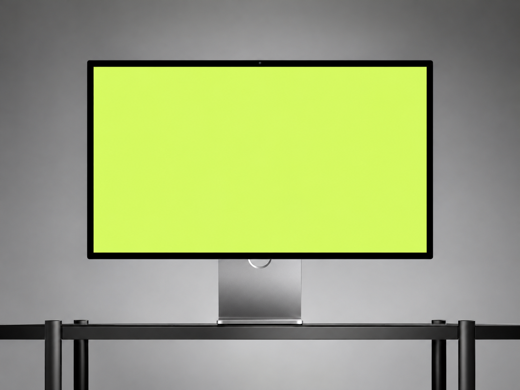
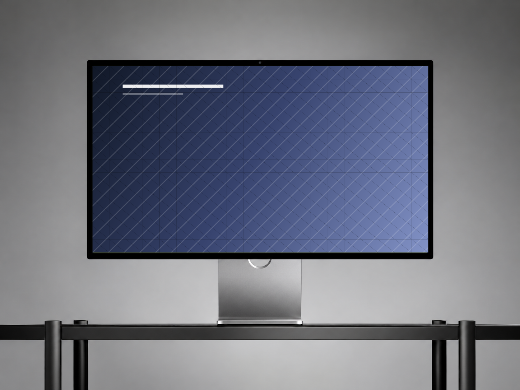
feat: unify mockup catalog and preview presentation

diff --git a/plugin/ui.html b/plugin/ui.html
@@ -13,6 +13,8 @@
   --line: #303030;
   --line-soft: #292929;
   --panel-pad: 16px;
+  --catalog-card-gap: 10px;
+  --recent-thumb-size: 52px;
   --text: #e2e1e6;
   --muted: #97969d;
   --muted-2: #6f6e74;
@@ -47,7 +49,7 @@ svg { width: 18px; height: 18px; fill: none; stroke: currentColor; stroke-width:
 .window-button, .tool-button, .color-button { width: 34px; height: 34px; display: grid; place-items: center; border-radius: 9px; color: #bdbcc2; }
 .window-button:hover, .tool-button:hover, .color-button:hover { background: #262626; color: #fff; }
 
-.workspace { min-width: 0; min-height: 0; display: grid; grid-template-columns: 304px minmax(0, 1fr); }
+.workspace { min-width: 0; min-height: 0; display: grid; grid-template-columns: 288px minmax(0, 1fr); }
 
 .catalog-panel { min-width: 0; min-height: 0; overflow: hidden; border-right: 1px solid var(--line); background: #181818; position: relative; }
 .catalog-view { width: 100%; height: 100%; min-height: 0; display: grid; grid-template-rows: 66px auto 28px minmax(0, 1fr) auto; }
@@ -72,7 +74,7 @@ svg { width: 18px; height: 18px; fill: none; stroke: currentColor; stroke-width:
 .category-select select, .fit-select select { min-width: 0; flex: 1; border: 0; outline: 0; color: #d5d4d9; background: transparent; }
 .catalog-summary { height: 28px; padding: 0 var(--panel-pad); display: flex; align-items: center; justify-content: space-between; color: #69686e; font-size: 10px; }
 
-.asset-grid { min-width: 0; min-height: 0; overflow: auto; padding: 14px 14px 18px; display: grid; align-content: start; grid-template-columns: repeat(2, minmax(0, 1fr)); gap: 12px 10px; scroll-padding: 14px; isolation: isolate; }
+.asset-grid { min-width: 0; min-height: 0; overflow-x: hidden; overflow-y: auto; padding: 12px var(--panel-pad) 16px; display: grid; align-content: start; grid-template-columns: repeat(2, minmax(0, 1fr)); gap: var(--catalog-card-gap); scroll-padding: 12px; isolation: isolate; }
 .asset-grid::-webkit-scrollbar { width: 6px; }
 .asset-grid::-webkit-scrollbar-thumb { background: #36363a; border-radius: 99px; }
 .asset-card { min-width: 0; padding: 0; overflow: hidden; position: relative; z-index: 0; transform-origin: center; border: 1px solid transparent; border-radius: 10px; background: #232323; cursor: pointer; text-align: left; transition: transform .18s ease, box-shadow .18s ease, border-color .18s ease; }
@@ -86,14 +88,14 @@ svg { width: 18px; height: 18px; fill: none; stroke: currentColor; stroke-width:
 .catalog-empty[hidden] { display: none; }
 .catalog-empty strong { color: #aaa9af; }
 
-.recent-strip { width: 100%; height: 104px; overflow: hidden; padding: 9px 14px 11px; display: grid; grid-template-rows: 20px 62px; gap: 3px; border-top: 1px solid var(--line-soft); background: #171717; }
+.recent-strip { width: 100%; height: 92px; overflow: hidden; padding: 8px var(--panel-pad) 10px; display: grid; grid-template-rows: 18px var(--recent-thumb-size); gap: 4px; border-top: 1px solid var(--line-soft); background: #171717; }
 .recent-strip[hidden] { display: none; }
-.recent-strip header { min-width: 0; height: 20px; margin: 0; padding: 0; display: flex; align-items: center; justify-content: space-between; color: #86858b; text-align: left; }
+.recent-strip header { min-width: 0; height: 18px; margin: 0; padding: 0; display: flex; align-items: center; justify-content: space-between; color: #86858b; text-align: left; }
 .recent-strip header button { line-height: 1; }
-.recent-strip > div { width: 100%; height: 62px; margin: 0; padding: 0; overflow-x: auto; overflow-y: hidden; display: flex; justify-content: flex-start; gap: 9px; scroll-behavior: smooth; scrollbar-width: none; touch-action: pan-y; cursor: grab; }
+.recent-strip > div { width: 100%; height: var(--recent-thumb-size); margin: 0; padding: 0; overflow-x: auto; overflow-y: hidden; display: flex; justify-content: flex-start; gap: 8px; scroll-behavior: smooth; scrollbar-width: none; touch-action: pan-y; cursor: grab; }
 .recent-strip > div::-webkit-scrollbar { display: none; }
 .recent-strip > div:active { cursor: grabbing; }
-.recent-item { width: 62px; height: 62px; min-width: 62px; margin: 0; padding: 0; flex: 0 0 62px; overflow: hidden; border: 1px solid #3b3a3f; border-radius: 9px; background: #202020; cursor: pointer; }
+.recent-item { width: var(--recent-thumb-size); height: var(--recent-thumb-size); min-width: var(--recent-thumb-size); margin: 0; padding: 0; flex: 0 0 var(--recent-thumb-size); overflow: hidden; border: 1px solid #3b3a3f; border-radius: 8px; background: #202020; cursor: pointer; }
 .recent-item.active { border-color: #dedde1; }
 .recent-item img { width: 100%; height: 100%; display: block; object-fit: cover; }
 
@@ -191,8 +193,11 @@ svg { width: 18px; height: 18px; fill: none; stroke: currentColor; stroke-width:
 .crop-toolbar button { height: 27px; padding: 0 9px; border: 0; border-radius: 7px; background: #292929; color: #c9c8cd; cursor: pointer; }
 .crop-toolbar button:hover { background: #343434; color: #fff; }
 .crop-toolbar .crop-done { background: #efeff1; color: #171717; }
-.screen-cta { position: absolute; left: 50%; top: 47%; z-index: 5; transform: translate(-50%, -50%); padding: 0; display: grid; place-items: center; color: #fff; }
-.screen-cta span { width: 46px; height: 46px; display: grid; place-items: center; border-radius: 50%; background: #070707; box-shadow: 0 13px 25px #0005; font-size: 25px; font-weight: 300; }
+.screen-cta { position: absolute; left: 50%; top: 50%; z-index: 5; transform: translate(-50%, -50%); padding: 0; display: grid; place-items: center; color: #fff; }
+.screen-cta span { width: 48px; height: 48px; display: grid; place-items: center; border: 1px solid #ffffff99; border-radius: 50%; background: linear-gradient(145deg, #ffffff36, #0b0b0b99 46%, #050505bd); box-shadow: inset 0 1px 0 #ffffff8f, inset 0 -1px 0 #0009, 0 12px 28px #0007, 0 0 0 1px #ffffff18; -webkit-backdrop-filter: blur(18px) saturate(150%); backdrop-filter: blur(18px) saturate(150%); font-size: 25px; font-weight: 300; line-height: 1; text-shadow: 0 1px 2px #000a; transition: border-color .16s ease, background .16s ease, transform .16s ease; }
+.screen-cta:hover span { border-color: #ffffffd9; background: linear-gradient(145deg, #ffffff4d, #111111a8 46%, #050505d1); transform: scale(1.04); }
+.screen-cta:focus-visible { outline: none; }
+.screen-cta:focus-visible span { outline: 2px solid #fff; outline-offset: 3px; }
 .screen-cta b { display: none; }
 .screen-cta.has-image { display: none; }
 .source-popover { width: 230px; padding: 7px; position: absolute; left: 50%; top: 50%; z-index: 9; transform: translate(-50%, -50%); display: grid; gap: 5px; border: 1px solid #3a393e; border-radius: 12px; background: #181818f7; box-shadow: 0 18px 48px #000b; }
@@ -249,7 +254,7 @@ html.is-collapsed .collapsed-bar[aria-hidden="true"] { visibility: visible; }
 }
 
 @media (hover: hover) and (pointer: fine) {
-  .asset-card:hover:not(.active) { z-index: 2; transform: rotate(var(--hover-tilt, 4deg)); border-color: transparent; box-shadow: 0 8px 22px #0008; }
+  .asset-card:hover:not(.active) { z-index: 2; transform: rotate(var(--hover-tilt, 4deg)) scale(.96); border-color: transparent; box-shadow: 0 8px 22px #0008; }
 }
 
 @media (prefers-reduced-motion: reduce) { *, *::before, *::after { scroll-behavior: auto !important; transition: none !important; } }
@@ -430,7 +435,7 @@ html.is-collapsed .collapsed-bar[aria-hidden="true"] { visibility: visible; }
                 <button class="design-scale-handle handle-sw" data-handle="sw" aria-label="左下等比缩放"></button>
                 <button class="design-scale-handle handle-w" data-handle="w" aria-label="向左单边缩放"></button>
               </div>
-              <button class="screen-cta" id="screenCta">
+              <button class="screen-cta" id="screenCta" aria-label="添加画面">
                 <span>＋</span>
                 <b>添加画面</b>
               </button>
@@ -540,6 +545,36 @@ fn fs_main(in : VertexOutput) -> @location(0) vec4<f32> {
   const DEFAULT_ADJUSTMENTS = Object.freeze({ scale: 1, offsetX: 0, offsetY: 0, rotation: 0, brightness: 1, contrast: 1, saturation: 1 });
   const DEFAULT_CROP = Object.freeze({ zoom: 1, offsetX: 0, offsetY: 0 });
   const baseCanvasCache = new WeakMap();
+
+  function createDefaultDesign(asset) {
+    validateAsset(asset);
+    const canvas = document.createElement("canvas");
+    canvas.width = asset.screen.recommendedSize.width;
+    canvas.height = asset.screen.recommendedSize.height;
+    const context = canvas.getContext("2d");
+    const gradient = context.createLinearGradient(0, 0, canvas.width, canvas.height);
+    gradient.addColorStop(0, "#111827");
+    gradient.addColorStop(0.48, "#38446f");
+    gradient.addColorStop(1, "#8393c7");
+    context.fillStyle = gradient;
+    context.fillRect(0, 0, canvas.width, canvas.height);
+
+    const size = Math.max(22, Math.round(Math.min(canvas.width, canvas.height) / 12));
+    context.strokeStyle = "rgba(255,255,255,.16)";
+    context.lineWidth = Math.max(2, size * 0.06);
+    for (let x = -canvas.height; x < canvas.width + canvas.height; x += size) {
+      context.beginPath();
+      context.moveTo(x, 0);
+      context.lineTo(x - canvas.height, canvas.height);
+      context.stroke();
+    }
+
+    context.fillStyle = "rgba(255,255,255,.92)";
+    context.fillRect(canvas.width * 0.09, canvas.height * 0.1, canvas.width * 0.3, Math.max(8, canvas.height * 0.018));
+    context.fillStyle = "rgba(255,255,255,.35)";
+    context.fillRect(canvas.width * 0.09, canvas.height * 0.145, canvas.width * 0.18, Math.max(5, canvas.height * 0.01));
+    return canvas;
+  }
 
   function validateAsset(asset) {
     if (!asset || !asset.id || !asset.name) throw new Error("样机缺少 id 或名称");
@@ -1196,7 +1231,7 @@ fn fs_main(in : VertexOutput) -> @location(0) vec4<f32> {
     return canvas;
   }
 
-  global.MockupRenderer = Object.freeze({ VERSION, DEFAULT_ADJUSTMENTS, DEFAULT_CROP, validateAsset, quadSize, bilinearPoint, inverseBilinearPoint, screenPlane, normalizeFrame, frameCorners, frameQuadOnSurface, surfaceQuadForFrameQuad, imageFrameForCover, constrainImageFrameToCover, constrainFrameVisibility, resizeFrameFromHandle, transformFrameBetweenFrames, expandQuad, cropGeometry, constrainCoverAdjustments, createScreenCanvas, createContentCanvas, drawImageToQuad, renderComposite });
+  global.MockupRenderer = Object.freeze({ VERSION, DEFAULT_ADJUSTMENTS, DEFAULT_CROP, createDefaultDesign, validateAsset, quadSize, bilinearPoint, inverseBilinearPoint, screenPlane, normalizeFrame, frameCorners, frameQuadOnSurface, surfaceQuadForFrameQuad, imageFrameForCover, constrainImageFrameToCover, constrainFrameVisibility, resizeFrameFromHandle, transformFrameBetweenFrames, expandQuad, cropGeometry, constrainCoverAdjustments, createScreenCanvas, createContentCanvas, drawImageToQuad, renderComposite });
 })(window);
 </script>
     <script>const PLUGIN_VERSION = "0.1.0";
@@ -1842,6 +1877,15 @@ function screenQuad() {
   return state.selectedAsset?.screen.quad || null;
 }
 
+function positionScreenCta() {
+  const quad = screenQuad();
+  const canvas = state.selectedAsset?.canvas;
+  if (!quad || !canvas) return;
+  const center = renderer.bilinearPoint(quad, 0.5, 0.5);
+  elements.screenCta.style.left = `${center[0] / canvas.width * 100}%`;
+  elements.screenCta.style.top = `${center[1] / canvas.height * 100}%`;
+}
+
 function updateSourceGuide() {
   const recommended = state.selectedAsset?.screen?.recommendedSize;
   elements.sourceGuide.classList.remove("match", "mismatch");
@@ -2237,11 +2281,12 @@ let scheduledRenderQuality = "preview";
 function renderComposite(quality = "final") {
   if (!state.selectedAsset || !state.baseImage) return;
   if (state.designImage) ensureContentGeometry();
+  const renderDesign = state.designImage || renderer.createDefaultDesign(state.selectedAsset);
   renderer.renderComposite({
     canvas: elements.previewCanvas,
     asset: state.selectedAsset,
     baseImage: state.baseImage,
-    designImage: state.designImage,
+    designImage: renderDesign,
     fit: "cover",
     adjustments: state.adjustments,
     crop: state.crop,
@@ -2255,6 +2300,7 @@ function renderComposite(quality = "final") {
     elements.screenCta.classList.add("has-image");
   } else {
     elements.screenCta.classList.remove("has-image");
+    positionScreenCta();
   }
   updateSourceActions();
   updateDesignEditor();

diff --git a/plugin/styles.css b/plugin/styles.css
@@ -7,6 +7,8 @@
   --line: #303030;
   --line-soft: #292929;
   --panel-pad: 16px;
+  --catalog-card-gap: 10px;
+  --recent-thumb-size: 52px;
   --text: #e2e1e6;
   --muted: #97969d;
   --muted-2: #6f6e74;
@@ -41,7 +43,7 @@ svg { width: 18px; height: 18px; fill: none; stroke: currentColor; stroke-width:
 .window-button, .tool-button, .color-button { width: 34px; height: 34px; display: grid; place-items: center; border-radius: 9px; color: #bdbcc2; }
 .window-button:hover, .tool-button:hover, .color-button:hover { background: #262626; color: #fff; }
 
-.workspace { min-width: 0; min-height: 0; display: grid; grid-template-columns: 304px minmax(0, 1fr); }
+.workspace { min-width: 0; min-height: 0; display: grid; grid-template-columns: 288px minmax(0, 1fr); }
 
 .catalog-panel { min-width: 0; min-height: 0; overflow: hidden; border-right: 1px solid var(--line); background: #181818; position: relative; }
 .catalog-view { width: 100%; height: 100%; min-height: 0; display: grid; grid-template-rows: 66px auto 28px minmax(0, 1fr) auto; }
@@ -66,7 +68,7 @@ svg { width: 18px; height: 18px; fill: none; stroke: currentColor; stroke-width:
 .category-select select, .fit-select select { min-width: 0; flex: 1; border: 0; outline: 0; color: #d5d4d9; background: transparent; }
 .catalog-summary { height: 28px; padding: 0 var(--panel-pad); display: flex; align-items: center; justify-content: space-between; color: #69686e; font-size: 10px; }
 
-.asset-grid { min-width: 0; min-height: 0; overflow: auto; padding: 14px 14px 18px; display: grid; align-content: start; grid-template-columns: repeat(2, minmax(0, 1fr)); gap: 12px 10px; scroll-padding: 14px; isolation: isolate; }
+.asset-grid { min-width: 0; min-height: 0; overflow-x: hidden; overflow-y: auto; padding: 12px var(--panel-pad) 16px; display: grid; align-content: start; grid-template-columns: repeat(2, minmax(0, 1fr)); gap: var(--catalog-card-gap); scroll-padding: 12px; isolation: isolate; }
 .asset-grid::-webkit-scrollbar { width: 6px; }
 .asset-grid::-webkit-scrollbar-thumb { background: #36363a; border-radius: 99px; }
 .asset-card { min-width: 0; padding: 0; overflow: hidden; position: relative; z-index: 0; transform-origin: center; border: 1px solid transparent; border-radius: 10px; background: #232323; cursor: pointer; text-align: left; transition: transform .18s ease, box-shadow .18s ease, border-color .18s ease; }
@@ -80,14 +82,14 @@ svg { width: 18px; height: 18px; fill: none; stroke: currentColor; stroke-width:
 .catalog-empty[hidden] { display: none; }
 .catalog-empty strong { color: #aaa9af; }
 
-.recent-strip { width: 100%; height: 104px; overflow: hidden; padding: 9px 14px 11px; display: grid; grid-template-rows: 20px 62px; gap: 3px; border-top: 1px solid var(--line-soft); background: #171717; }
+.recent-strip { width: 100%; height: 92px; overflow: hidden; padding: 8px var(--panel-pad) 10px; display: grid; grid-template-rows: 18px var(--recent-thumb-size); gap: 4px; border-top: 1px solid var(--line-soft); background: #171717; }
 .recent-strip[hidden] { display: none; }
-.recent-strip header { min-width: 0; height: 20px; margin: 0; padding: 0; display: flex; align-items: center; justify-content: space-between; color: #86858b; text-align: left; }
+.recent-strip header { min-width: 0; height: 18px; margin: 0; padding: 0; display: flex; align-items: center; justify-content: space-between; color: #86858b; text-align: left; }
 .recent-strip header button { line-height: 1; }
-.recent-strip > div { width: 100%; height: 62px; margin: 0; padding: 0; overflow-x: auto; overflow-y: hidden; display: flex; justify-content: flex-start; gap: 9px; scroll-behavior: smooth; scrollbar-width: none; touch-action: pan-y; cursor: grab; }
+.recent-strip > div { width: 100%; height: var(--recent-thumb-size); margin: 0; padding: 0; overflow-x: auto; overflow-y: hidden; display: flex; justify-content: flex-start; gap: 8px; scroll-behavior: smooth; scrollbar-width: none; touch-action: pan-y; cursor: grab; }
 .recent-strip > div::-webkit-scrollbar { display: none; }
 .recent-strip > div:active { cursor: grabbing; }
-.recent-item { width: 62px; height: 62px; min-width: 62px; margin: 0; padding: 0; flex: 0 0 62px; overflow: hidden; border: 1px solid #3b3a3f; border-radius: 9px; background: #202020; cursor: pointer; }
+.recent-item { width: var(--recent-thumb-size); height: var(--recent-thumb-size); min-width: var(--recent-thumb-size); margin: 0; padding: 0; flex: 0 0 var(--recent-thumb-size); overflow: hidden; border: 1px solid #3b3a3f; border-radius: 8px; background: #202020; cursor: pointer; }
 .recent-item.active { border-color: #dedde1; }
 .recent-item img { width: 100%; height: 100%; display: block; object-fit: cover; }
 
@@ -185,8 +187,11 @@ svg { width: 18px; height: 18px; fill: none; stroke: currentColor; stroke-width:
 .crop-toolbar button { height: 27px; padding: 0 9px; border: 0; border-radius: 7px; background: #292929; color: #c9c8cd; cursor: pointer; }
 .crop-toolbar button:hover { background: #343434; color: #fff; }
 .crop-toolbar .crop-done { background: #efeff1; color: #171717; }
-.screen-cta { position: absolute; left: 50%; top: 47%; z-index: 5; transform: translate(-50%, -50%); padding: 0; display: grid; place-items: center; color: #fff; }
-.screen-cta span { width: 46px; height: 46px; display: grid; place-items: center; border-radius: 50%; background: #070707; box-shadow: 0 13px 25px #0005; font-size: 25px; font-weight: 300; }
+.screen-cta { position: absolute; left: 50%; top: 50%; z-index: 5; transform: translate(-50%, -50%); padding: 0; display: grid; place-items: center; color: #fff; }
+.screen-cta span { width: 48px; height: 48px; display: grid; place-items: center; border: 1px solid #ffffff99; border-radius: 50%; background: linear-gradient(145deg, #ffffff36, #0b0b0b99 46%, #050505bd); box-shadow: inset 0 1px 0 #ffffff8f, inset 0 -1px 0 #0009, 0 12px 28px #0007, 0 0 0 1px #ffffff18; -webkit-backdrop-filter: blur(18px) saturate(150%); backdrop-filter: blur(18px) saturate(150%); font-size: 25px; font-weight: 300; line-height: 1; text-shadow: 0 1px 2px #000a; transition: border-color .16s ease, background .16s ease, transform .16s ease; }
+.screen-cta:hover span { border-color: #ffffffd9; background: linear-gradient(145deg, #ffffff4d, #111111a8 46%, #050505d1); transform: scale(1.04); }
+.screen-cta:focus-visible { outline: none; }
+.screen-cta:focus-visible span { outline: 2px solid #fff; outline-offset: 3px; }
 .screen-cta b { display: none; }
 .screen-cta.has-image { display: none; }
 .source-popover { width: 230px; padding: 7px; position: absolute; left: 50%; top: 50%; z-index: 9; transform: translate(-50%, -50%); display: grid; gap: 5px; border: 1px solid #3a393e; border-radius: 12px; background: #181818f7; box-shadow: 0 18px 48px #000b; }
@@ -243,7 +248,7 @@ html.is-collapsed .collapsed-bar[aria-hidden="true"] { visibility: visible; }
 }
 
 @media (hover: hover) and (pointer: fine) {
-  .asset-card:hover:not(.active) { z-index: 2; transform: rotate(var(--hover-tilt, 4deg)); border-color: transparent; box-shadow: 0 8px 22px #0008; }
+  .asset-card:hover:not(.active) { z-index: 2; transform: rotate(var(--hover-tilt, 4deg)) scale(.96); border-color: transparent; box-shadow: 0 8px 22px #0008; }
 }
 
 @media (prefers-reduced-motion: reduce) { *, *::before, *::after { scroll-behavior: auto !important; transition: none !important; } }

diff --git a/shared/mockup-renderer.js b/shared/mockup-renderer.js
@@ -6,6 +6,36 @@
   const DEFAULT_CROP = Object.freeze({ zoom: 1, offsetX: 0, offsetY: 0 });
   const baseCanvasCache = new WeakMap();
 
+  function createDefaultDesign(asset) {
+    validateAsset(asset);
+    const canvas = document.createElement("canvas");
+    canvas.width = asset.screen.recommendedSize.width;
+    canvas.height = asset.screen.recommendedSize.height;
+    const context = canvas.getContext("2d");
+    const gradient = context.createLinearGradient(0, 0, canvas.width, canvas.height);
+    gradient.addColorStop(0, "#111827");
+    gradient.addColorStop(0.48, "#38446f");
+    gradient.addColorStop(1, "#8393c7");
+    context.fillStyle = gradient;
+    context.fillRect(0, 0, canvas.width, canvas.height);
+
+    const size = Math.max(22, Math.round(Math.min(canvas.width, canvas.height) / 12));
+    context.strokeStyle = "rgba(255,255,255,.16)";
+    context.lineWidth = Math.max(2, size * 0.06);
+    for (let x = -canvas.height; x < canvas.width + canvas.height; x += size) {
+      context.beginPath();
+      context.moveTo(x, 0);
+      context.lineTo(x - canvas.height, canvas.height);
+      context.stroke();
+    }
+
+    context.fillStyle = "rgba(255,255,255,.92)";
+    context.fillRect(canvas.width * 0.09, canvas.height * 0.1, canvas.width * 0.3, Math.max(8, canvas.height * 0.018));
+    context.fillStyle = "rgba(255,255,255,.35)";
+    context.fillRect(canvas.width * 0.09, canvas.height * 0.145, canvas.width * 0.18, Math.max(5, canvas.height * 0.01));
+    return canvas;
+  }
+
   function validateAsset(asset) {
     if (!asset || !asset.id || !asset.name) throw new Error("样机缺少 id 或名称");
     if (!["static-screen-v1", "static-screen-v2"].includes(asset.renderer)) throw new Error(`${asset.id} 渲染器不受支持`);
@@ -661,5 +691,5 @@
     return canvas;
   }
 
-  global.MockupRenderer = Object.freeze({ VERSION, DEFAULT_ADJUSTMENTS, DEFAULT_CROP, validateAsset, quadSize, bilinearPoint, inverseBilinearPoint, screenPlane, normalizeFrame, frameCorners, frameQuadOnSurface, surfaceQuadForFrameQuad, imageFrameForCover, constrainImageFrameToCover, constrainFrameVisibility, resizeFrameFromHandle, transformFrameBetweenFrames, expandQuad, cropGeometry, constrainCoverAdjustments, createScreenCanvas, createContentCanvas, drawImageToQuad, renderComposite });
+  global.MockupRenderer = Object.freeze({ VERSION, DEFAULT_ADJUSTMENTS, DEFAULT_CROP, createDefaultDesign, validateAsset, quadSize, bilinearPoint, inverseBilinearPoint, screenPlane, normalizeFrame, frameCorners, frameQuadOnSurface, surfaceQuadForFrameQuad, imageFrameForCover, constrainImageFrameToCover, constrainFrameVisibility, resizeFrameFromHandle, transformFrameBetweenFrames, expandQuad, cropGeometry, constrainCoverAdjustments, createScreenCanvas, createContentCanvas, drawImageToQuad, renderComposite });
 })(window);

diff --git a/plugin/ui.js b/plugin/ui.js
@@ -641,6 +641,15 @@ function screenQuad() {
   return state.selectedAsset?.screen.quad || null;
 }
 
+function positionScreenCta() {
+  const quad = screenQuad();
+  const canvas = state.selectedAsset?.canvas;
+  if (!quad || !canvas) return;
+  const center = renderer.bilinearPoint(quad, 0.5, 0.5);
+  elements.screenCta.style.left = `${center[0] / canvas.width * 100}%`;
+  elements.screenCta.style.top = `${center[1] / canvas.height * 100}%`;
+}
+
 function updateSourceGuide() {
   const recommended = state.selectedAsset?.screen?.recommendedSize;
   elements.sourceGuide.classList.remove("match", "mismatch");
@@ -1036,11 +1045,12 @@ let scheduledRenderQuality = "preview";
 function renderComposite(quality = "final") {
   if (!state.selectedAsset || !state.baseImage) return;
   if (state.designImage) ensureContentGeometry();
+  const renderDesign = state.designImage || renderer.createDefaultDesign(state.selectedAsset);
   renderer.renderComposite({
     canvas: elements.previewCanvas,
     asset: state.selectedAsset,
     baseImage: state.baseImage,
-    designImage: state.designImage,
+    designImage: renderDesign,
     fit: "cover",
     adjustments: state.adjustments,
     crop: state.crop,
@@ -1054,6 +1064,7 @@ function renderComposite(quality = "final") {
     elements.screenCta.classList.add("has-image");
   } else {
     elements.screenCta.classList.remove("has-image");
+    positionScreenCta();
   }
   updateSourceActions();
   updateDesignEditor();

diff --git a/plugin/ui.template.html b/plugin/ui.template.html
@@ -181,7 +181,7 @@
                 <button class="design-scale-handle handle-sw" data-handle="sw" aria-label="左下等比缩放"></button>
                 <button class="design-scale-handle handle-w" data-handle="w" aria-label="向左单边缩放"></button>
               </div>
-              <button class="screen-cta" id="screenCta">
+              <button class="screen-cta" id="screenCta" aria-label="添加画面">
                 <span>＋</span>
                 <b>添加画面</b>
               </button>
